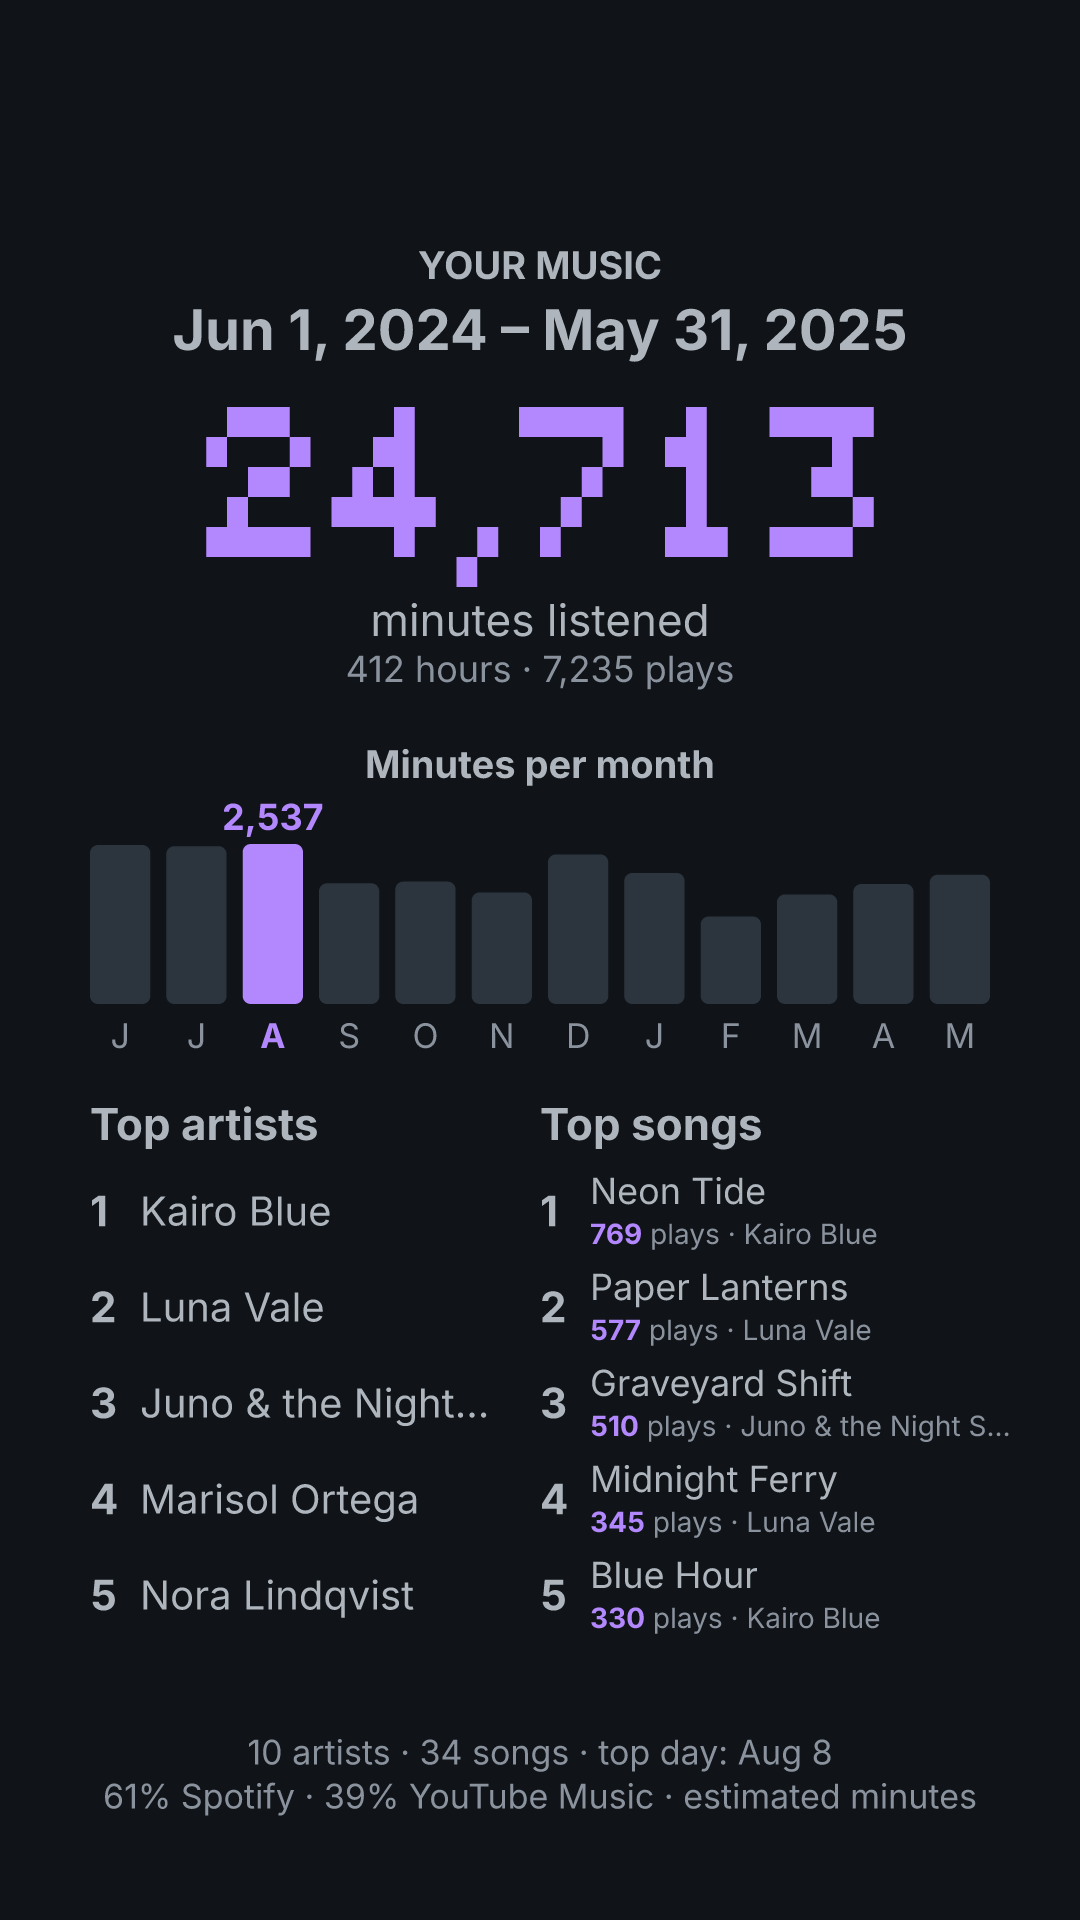
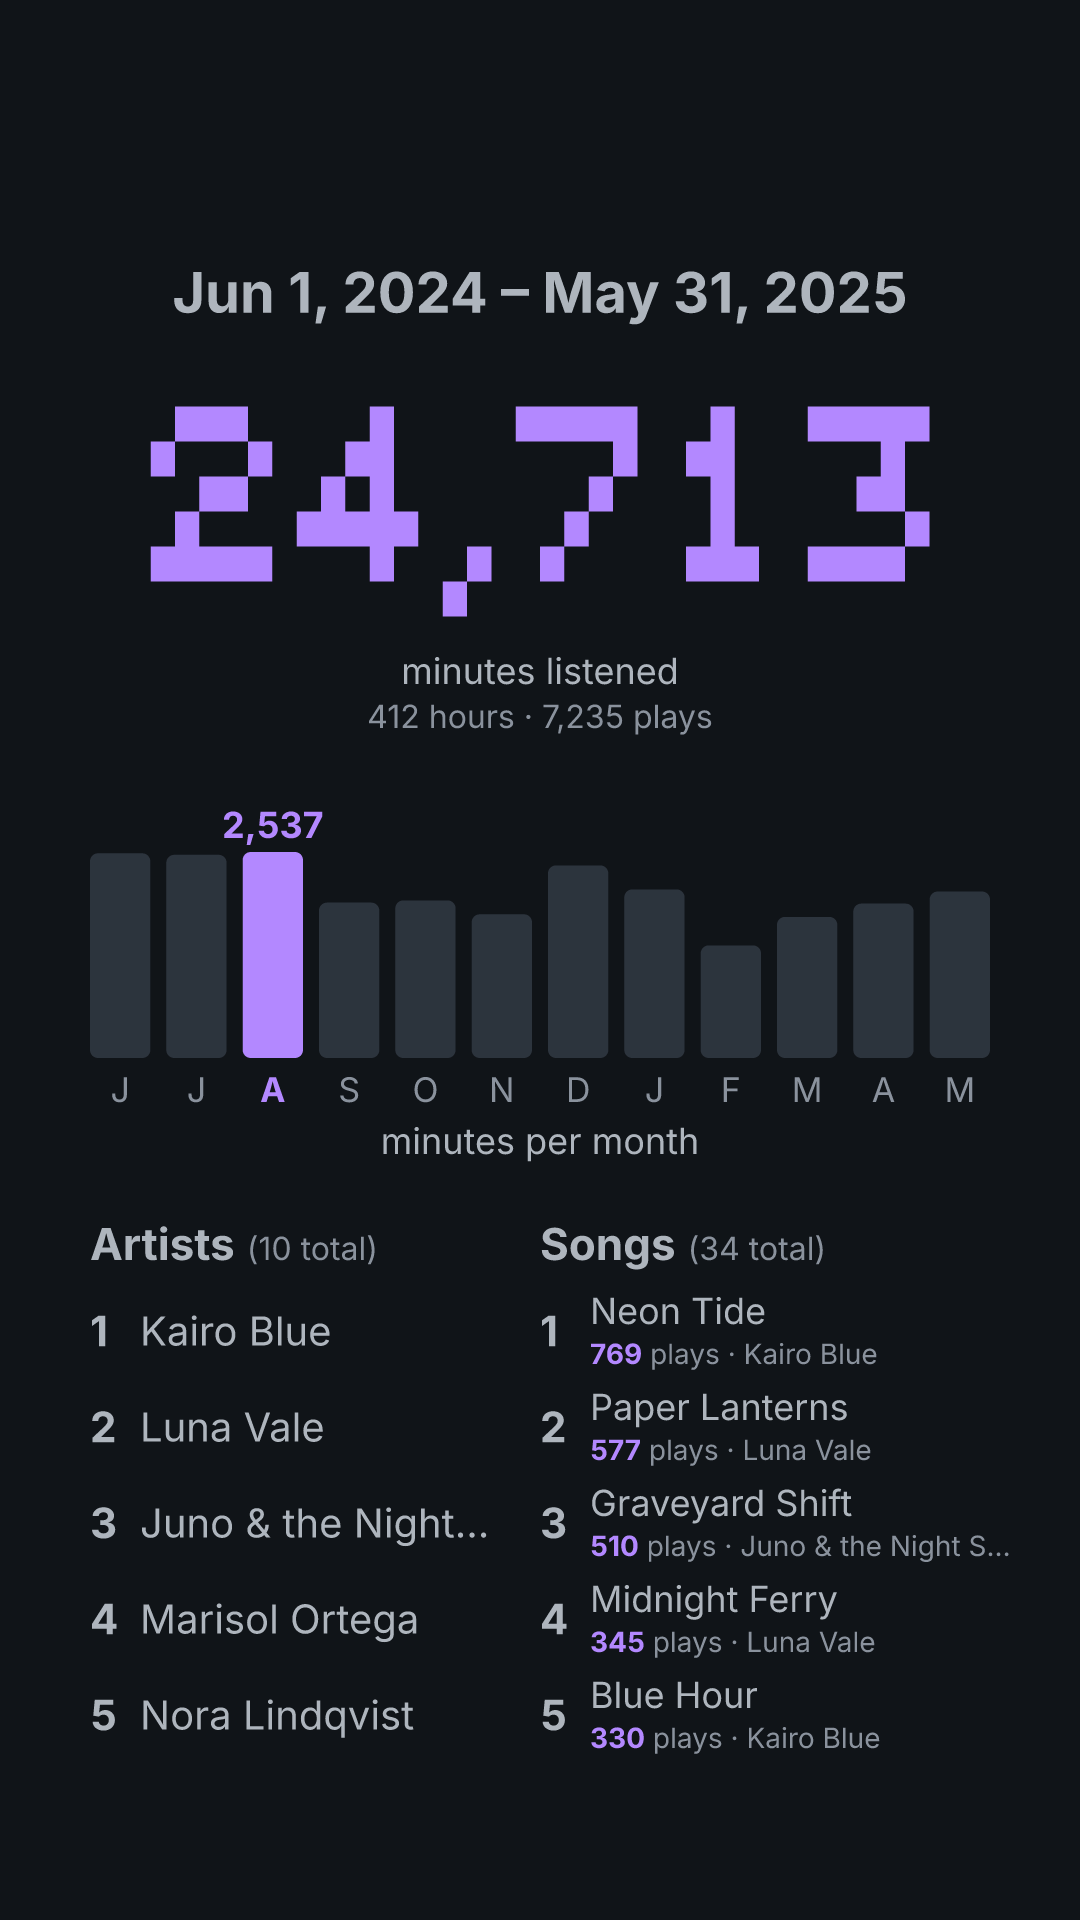
docs: regenerate the samples and add a top 10 one
Refs #62

diff --git a/README.md b/README.md
@@ -31,12 +31,14 @@ Made from a fictional listening history (2021–2025; YouTube Music from 2024).
   <a href="docs/samples/range.png"><img src="docs/samples/range.png" width="200" alt="Sample 2: Jun 2024 to May 2025, both sources"></a>
   <a href="docs/samples/history.png"><img src="docs/samples/history.png" width="200" alt="Sample 3: whole history, by year"></a>
   <a href="docs/samples/minutes.png"><img src="docs/samples/minutes.png" width="200" alt="Sample 4: 2025 ranked by minutes"></a>
+  <a href="docs/samples/top10.png"><img src="docs/samples/top10.png" width="200" alt="Sample 5: 2025, top 10"></a>
 </p>
 
 1. One year, Spotify only: `--year 2025 --source spotify`
 2. Custom range, both sources (estimated minutes): `--from 2024-06-01 --to 2025-05-31 --color purple`
 3. Whole history; past 24 months the chart goes by year: `--color blue`
 4. Top lists by minutes: `--year 2025 --rank-by minutes --color green`
+5. Top 10 lists, with the date and totals beside the figure: `--year 2025 --top 10 --color pink`
 
 ## Installation
 
@@ -104,7 +106,7 @@ On Windows use `mw.exe`; after `cargo install`, just `mw`. Run `mw --help` for e
 ## How it counts
 
 - Spotify plays shorter than 30 seconds don't count (they're skips), same as the official Wrapped. Podcasts and audiobooks are ignored.
-- YouTube Music doesn't record how long you listened to each song, only that you played it. Each play counts `--ytm-avg-minutes` minutes, which is why the total is marked as estimated when YouTube Music is included ("≈" in the terminal, "estimated minutes" in the image).
+- YouTube Music doesn't record how long you listened to each song, only that you played it. Each play counts `--ytm-avg-minutes` minutes, which is why the total is marked as estimated when YouTube Music is included ("≈" in the terminal, a note under the image on the web page).
 - Songs in the [song database](data/README.md) count their song length instead, assuming you listened to the whole song. A play is matched by video ID (then the database names replace the Takeout ones, which carry wording like "Watched" in your account language) or else by artist and title. `mw` keeps a copy of the database in your cache folder and, on every run, downloads it again only if it changed: with no connection it uses that copy, and with no copy every play keeps the estimate. `--offline` uses only the copy; `--db <URL|PATH>` reads another database.
 - Artists and songs are merged across sources ignoring case, accents and YouTube add-ons like " - Topic" or "(Official Video)".
 
